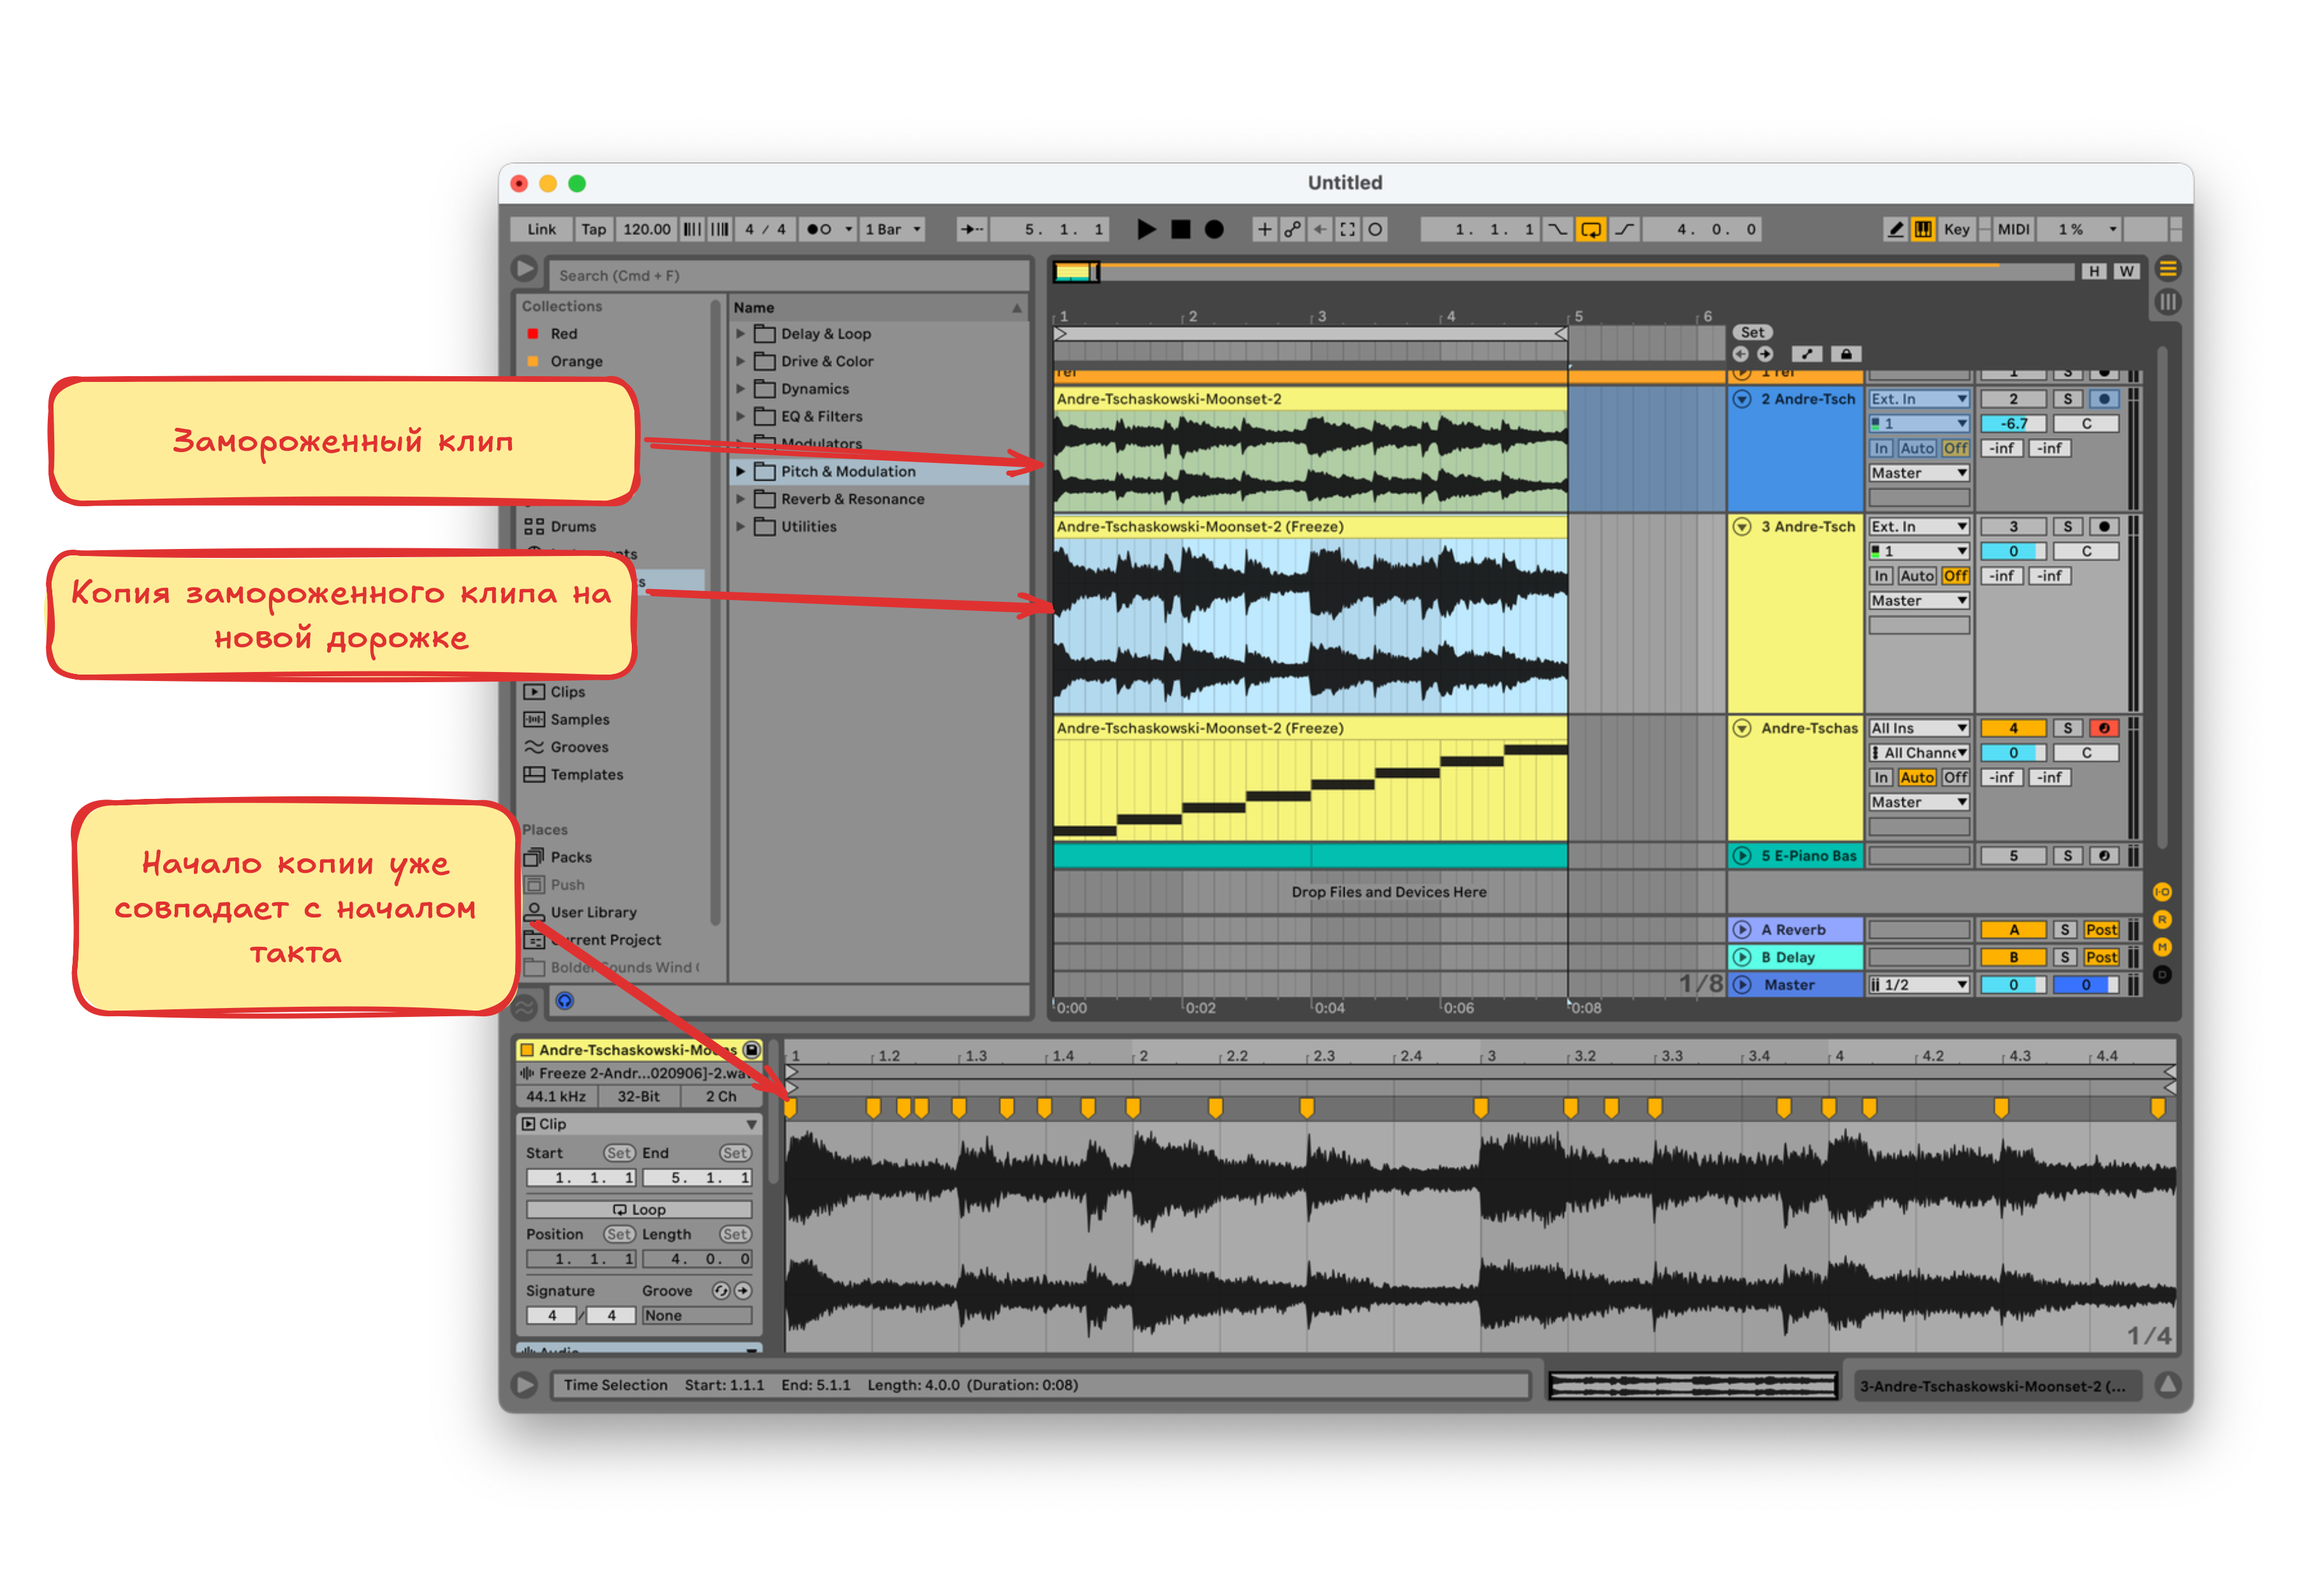
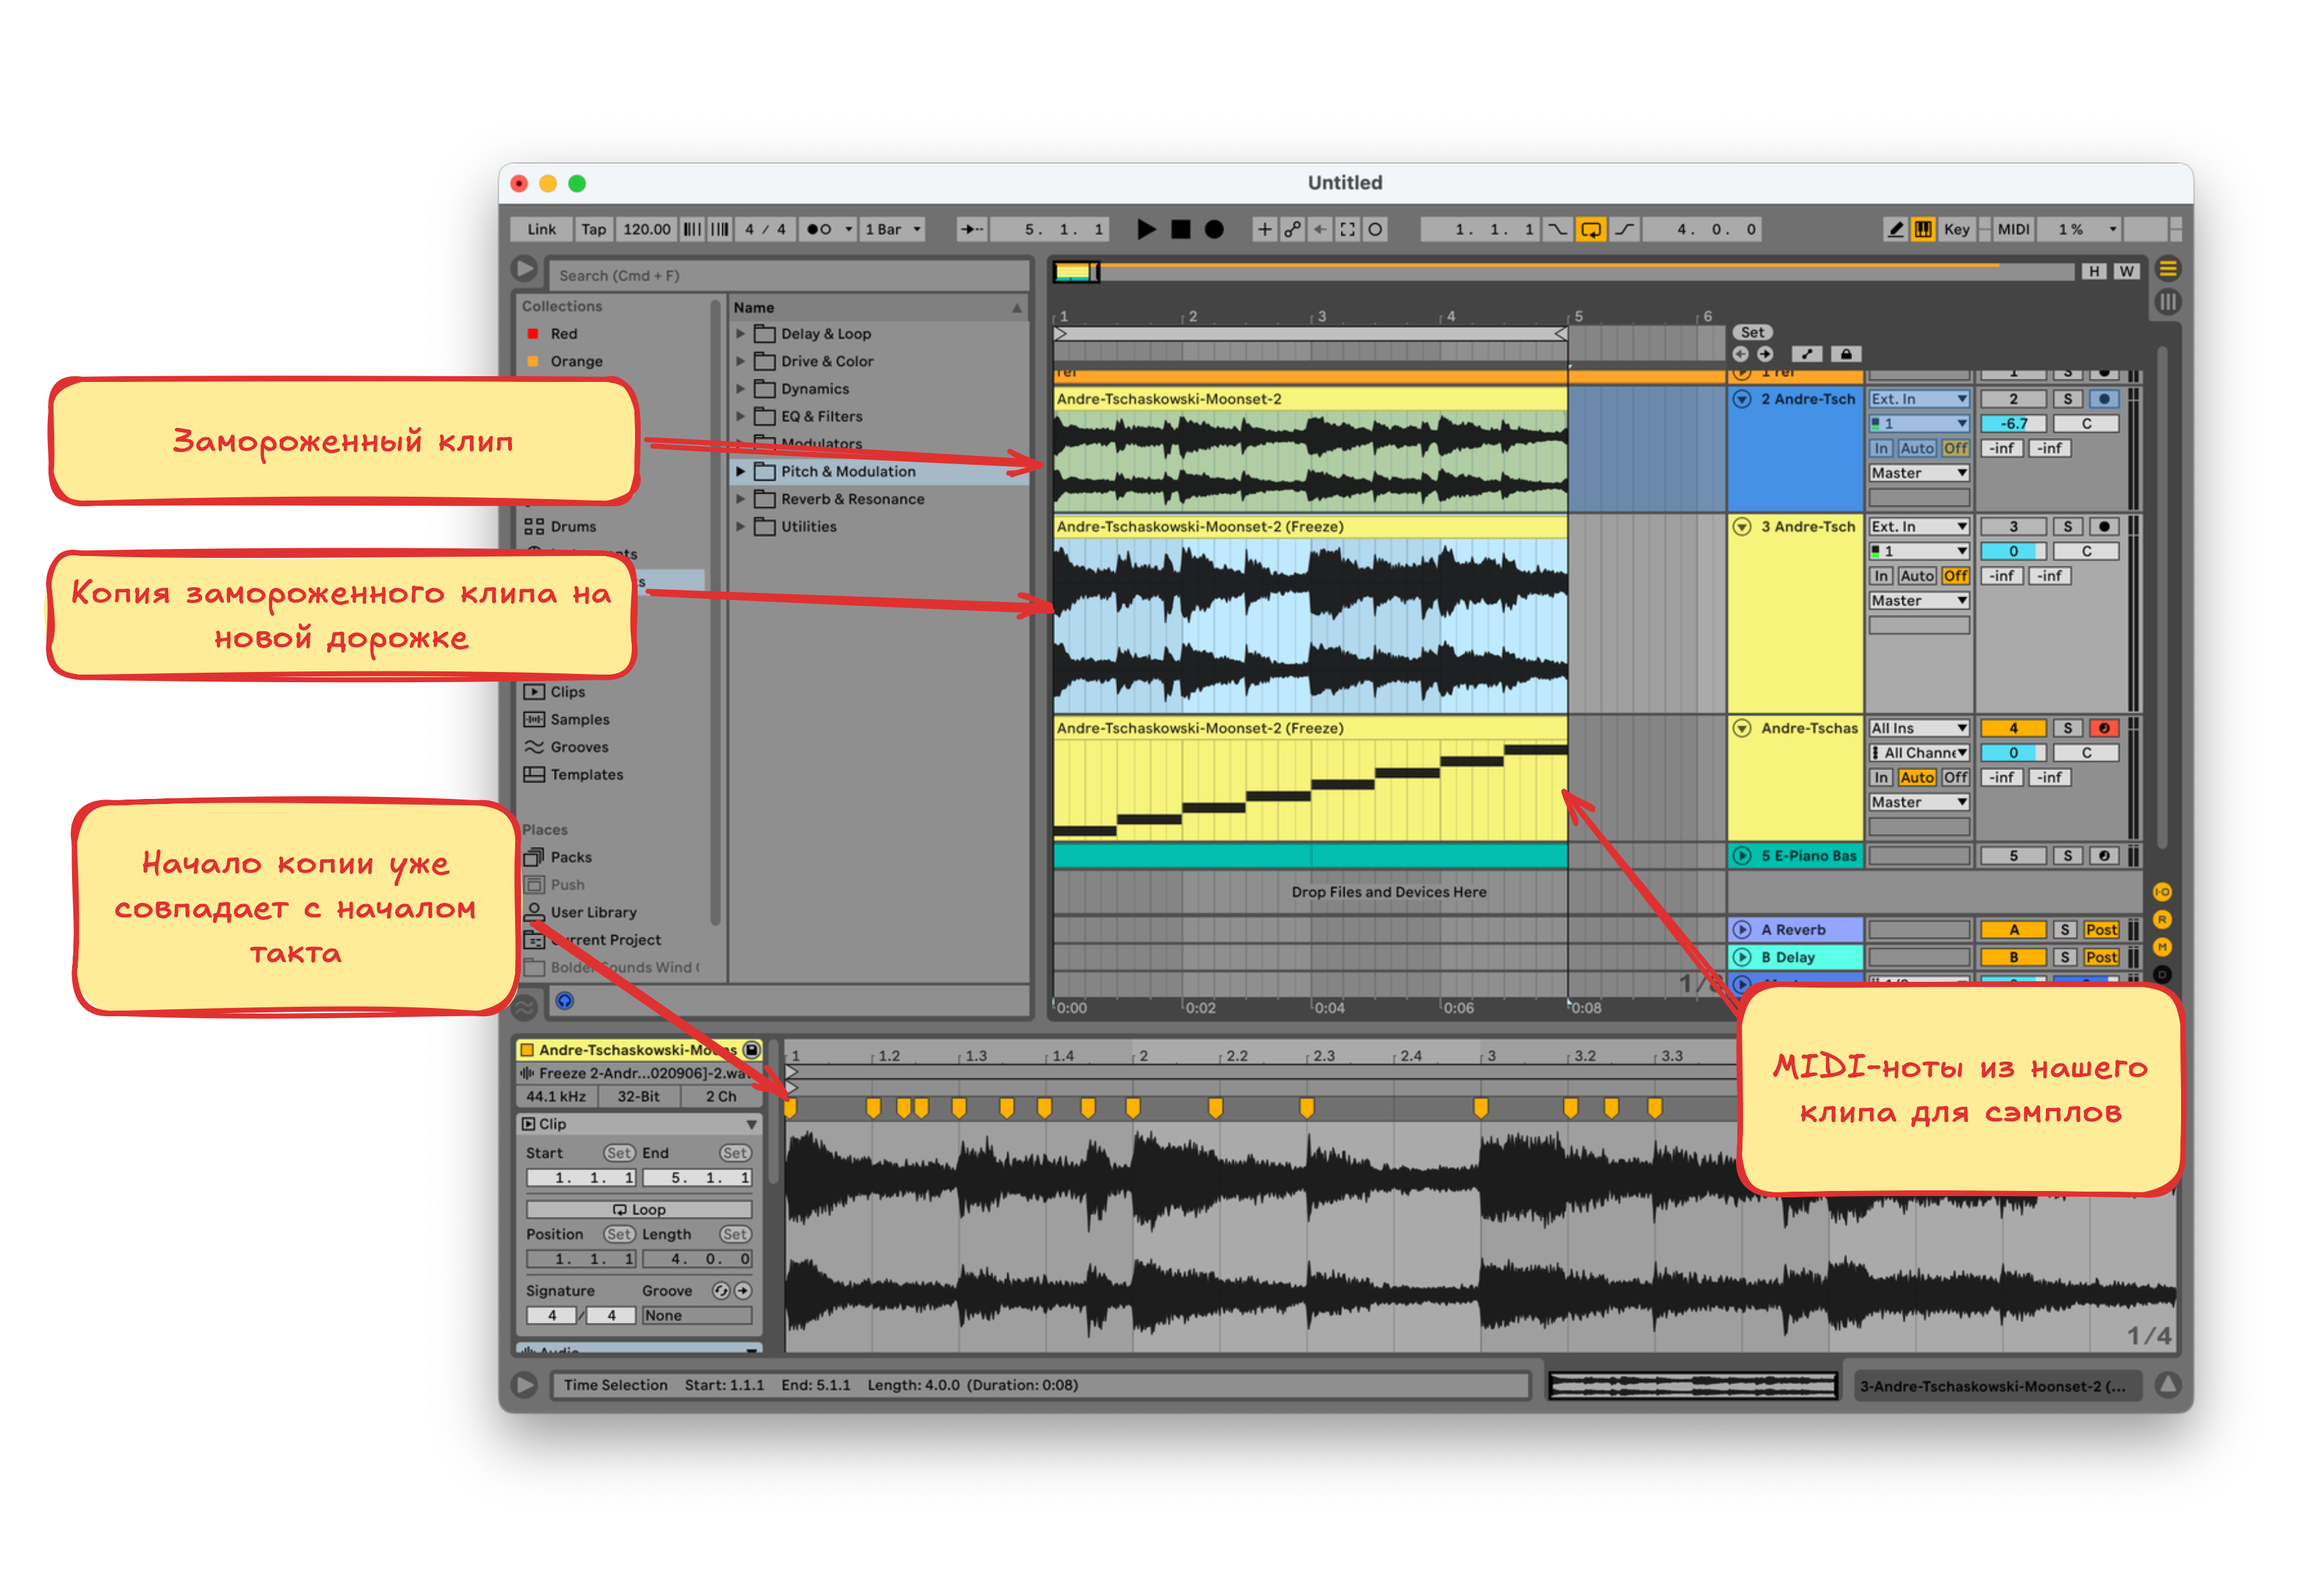
w

diff --git a/sampling-practice.md b/sampling-practice.md
@@ -27,5 +27,4 @@
 - В Ableton на отдельную дорожку добавляем композицию для сэмплов
 - Определяем её темп и тональность, так-же как и для референса. Если тональность не подходит, используем **Pitch** в нижней части окна, или эффект **Shifter**
 - После подгонки отрезка для сэмплирования по темпу и тональности важно его заморозить (`Freeze` в контекстном меню). Потому что подогнанный отрезок может не точно совпадать с началом такта, а копия замороженного отрезка будет восприниматься как новый клип и его начало совпадёт с началом такта, это позволит создать сэмплы, которые будут хорошо "влезать" в такты. К "замороженному" клипу так-же применяются все эффекты и CPU не тратится на их вычисление при проигрывании![image](./images/sampling-freeze.png)
-- Создаём новую дорожку и копируем на неё замороженный клип, начало копии уже будет совпадать с началом такта ![image](./images/sampling-freeze-copy.png)
-- Теперь выравниваем транзиенты по тактам и делаем MIDI-ноты из клипа. Для этого в контекстном меню клипа выбираем `Slice to New MIDI Track`
+- Создаём новую дорожку и копируем на неё замороженный клип, начало копии уже будет совпадать с началом такта. Выравниваем транзиенты по тактам и делаем MIDI-ноты из клипа. Для этого в контекстном меню клипа выбираем `Slice to New MIDI Track`![image](./images/sampling-freeze-copy.png)
